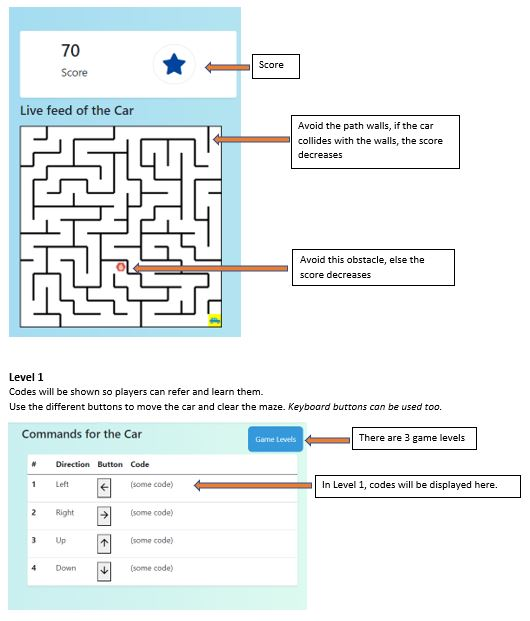
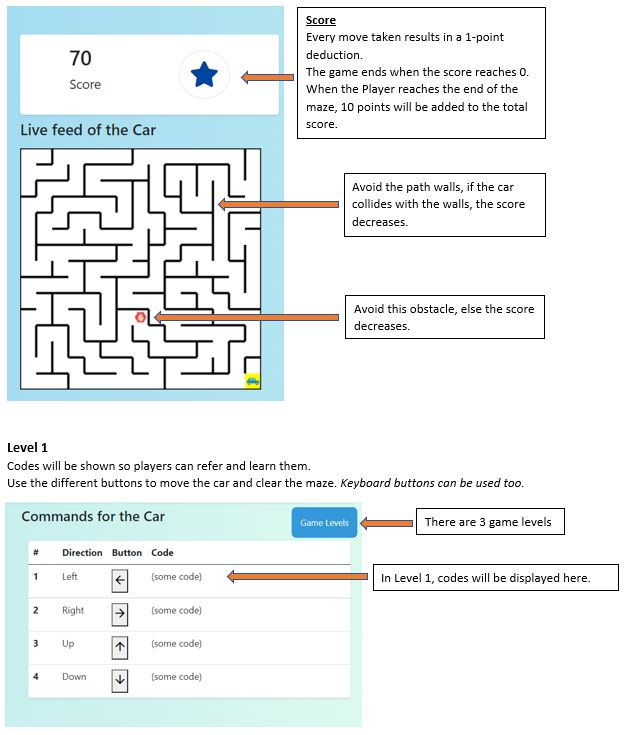
updated score

Changed region(s): [[0.0, 0.0, 0.8755, 0.5507], [0.0, 0.5813, 0.9962, 1.0]]

diff --git a/dashboard/maze.js b/dashboard/maze.js
@@ -29,6 +29,7 @@ function startGame() {
     overlay.addEventListener('click', () => {
         overlay.classList.remove('visible');
         startGame();
+        document.getElementById("score-tag").innerHTML = car.score
     });
 });
 }
@@ -44,7 +45,7 @@ class Car {
   init() {
     this.col = 0;
     this.row = 0;
-    this.score = 100;
+    this.score = 150;
     this.finalscore = 0;
     this.reachedfinal = 0;
   }
@@ -311,7 +312,7 @@ function keyDown(event) {
         car.col -= 1;
         updateSpeed("down");
         if (car.reachedfinal == 0) {
-          updateScore("add");
+          updateScore("subtract");
         }
       } else {
         if (car.reachedfinal == 0) {
@@ -331,7 +332,7 @@ function keyDown(event) {
         car.col += 1;
         updateSpeed("down");
         if (car.reachedfinal == 0) {
-          updateScore("add");
+          updateScore("subtract");
         }
       } else {
         if (car.reachedfinal == 0) {
@@ -350,7 +351,7 @@ function keyDown(event) {
         car.row += 1;
         updateSpeed("down");
         if (car.reachedfinal == 0) {
-          updateScore("add");
+          updateScore("subtract");
         }
       } else {
         if (car.reachedfinal == 0) {
@@ -369,7 +370,7 @@ function keyDown(event) {
         car.row -= 1;
         updateSpeed("down");
         if (car.reachedfinal == 0) {
-          updateScore("add");
+          updateScore("subtract");
         }
       } else {
         if (car.reachedfinal == 0) {
@@ -399,7 +400,7 @@ function buttonClick(event) {
         car.col -= 1;
         updateSpeed("down");
         if (car.reachedfinal == 0) {
-          updateScore("add");
+          updateScore("subtract");
         }
       } else {
         if (car.reachedfinal == 0) {
@@ -417,7 +418,7 @@ function buttonClick(event) {
         car.col += 1;
         updateSpeed("down");
         if (car.reachedfinal == 0) {
-          updateScore("add");
+          updateScore("subtract");
         }
       } else {
         if (car.reachedfinal == 0) {
@@ -435,7 +436,7 @@ function buttonClick(event) {
         car.row += 1;
         updateSpeed("down");
         if (car.reachedfinal == 0) {
-          updateScore("add");
+          updateScore("subtract");
         }
       } else {
         if (car.reachedfinal == 0) {
@@ -453,7 +454,7 @@ function buttonClick(event) {
         car.row -= 1;
         updateSpeed("down");
         if (car.reachedfinal == 0) {
-          updateScore("add");
+          updateScore("subtract");
         }
       } else {
         if (car.reachedfinal == 0) {
@@ -472,12 +473,12 @@ function buttonClick(event) {
 
 function updateSpeed(event) {
     if (event == "down") {
-      var speed = "5" + " km/h"
+      var speed = "5" + " m/s"
       document.getElementById("speed-tag").innerHTML = speed;
   }
 
     else if (event == "up") {
-      var speed = "0" + " km/h"
+      var speed = "0" + " m/s"
       document.getElementById("speed-tag").innerHTML = speed;
     }
 }
@@ -486,17 +487,20 @@ function updateScore(event) {
 
   if (car.reachedfinal == 0) {
     if (event == "add") {
-      car.score += 1
+      car.score += 11
       car.score = Math.max(car.score, 0)
       document.getElementById("score-tag").innerHTML = car.score
       console.log(car.score)
     } 
 
     else if (event == "subtract") {
-      car.score -= 10
+      car.score -= 1
       car.score = Math.max(car.score, 0)
       document.getElementById("score-tag").innerHTML = car.score
       console.log(car.score)
+      if (car.score == 0) {
+        document.getElementById('game-over-text').classList.add('visible');
+      }
     }
 
   }
@@ -511,8 +515,9 @@ function updateScore(event) {
 function goalReached() {
   console.log("car col " + car.col + " final score " + car.finalscore)
   if ((car.col == maze.cols - 1) && ((car.row == maze.rows - 1))) {
+    updateScore("add");
     car.reachedfinal = 1;
-    document.getElementById('game-over-text').classList.add('visible');
+    document.getElementById('victory-text').classList.add('visible');
   }
 }
 

diff --git a/dashboard/control2.html b/dashboard/control2.html
@@ -80,7 +80,7 @@
                     <div class="col-md-3">
                         <div class="p-3 bg-white shadow-sm d-flex justify-content-around align-items-center rounded">
                             <div>
-                                <h3 class="fs-2" id="score-tag">100</h3>
+                                <h3 class="fs-2" id="score-tag">150</h3>
                                 <p class="fs-5">Score</p>
                             </div>
                             <i class="fas fa-star fs-1 primary-text border rounded-full secondary-bg p-3"></i>
@@ -90,7 +90,7 @@
                     <div class="col-md-3">
                         <div class="p-3 bg-white shadow-sm d-flex justify-content-around align-items-center rounded">
                             <div>
-                                <h3 class="fs-2" id="speed-tag">0 km/h</h3>
+                                <h3 class="fs-2" id="speed-tag">0 m/s</h3>
                                 <p class="fs-5">Speed</p>
                             </div>
                             <i
@@ -123,6 +123,10 @@
                   </div>
                   <div id="game-over-text" class="overlay-text">
                     GAME OVER
+                    <span class="overlay-text-small">Click to Restart</span>
+                </div>
+                <div id="victory-text" class="overlay-text">
+                    VICTORY
                     <span class="overlay-text-small">Click to Restart</span>
                 </div>
                 <div style='float:left'>
@@ -203,7 +207,7 @@
                <!-- Modal content -->
                <div class="modal-content">
                    <span class="close">&times;</span>
-                   <img src="level2.JPG">
+                   <img src="instructions-1.JPG">
                </div> 
 
     </div>

diff --git a/dashboard/control.html b/dashboard/control.html
@@ -48,6 +48,7 @@
         text-decoration: none;
         cursor: pointer;
         }
+
     </style>
 </head>
 <body onload='startGame()'>
@@ -80,7 +81,7 @@
                     <div class="col-md-3">
                         <div class="p-3 bg-white shadow-sm d-flex justify-content-around align-items-center rounded">
                             <div>
-                                <h3 class="fs-2" id="score-tag">100</h3>
+                                <h3 class="fs-2" id="score-tag">150</h3>
                                 <p class="fs-5">Score</p>
                             </div>
                             <i class="fas fa-star fs-1 primary-text border rounded-full secondary-bg p-3"></i>
@@ -90,7 +91,7 @@
                     <div class="col-md-3">
                         <div class="p-3 bg-white shadow-sm d-flex justify-content-around align-items-center rounded">
                             <div>
-                                <h3 class="fs-2" id="speed-tag">0 km/h</h3>
+                                <h3 class="fs-2" id="speed-tag">0 m/s</h3>
                                 <p class="fs-5">Speed</p>
                             </div>
                             <i
@@ -125,8 +126,12 @@
                     GAME OVER
                     <span class="overlay-text-small">Click to Restart</span>
                 </div>
+                <div id="victory-text" class="overlay-text">
+                    VICTORY
+                    <span class="overlay-text-small">Click to Restart</span>
+                </div>
                 <div style='float:left'>
-                    <h3 class="fs-4 mb-3">Live feed of the Car</h3>
+                    <h3 class="fs-4 mb-3">MAZE</h3>
 
                     <div id="maze">
             

diff --git a/dashboard/control3.html b/dashboard/control3.html
@@ -80,7 +80,7 @@
                     <div class="col-md-3">
                         <div class="p-3 bg-white shadow-sm d-flex justify-content-around align-items-center rounded">
                             <div>
-                                <h3 class="fs-2" id="score-tag">100</h3>
+                                <h3 class="fs-2" id="score-tag">150</h3>
                                 <p class="fs-5">Score</p>
                             </div>
                             <i class="fas fa-star fs-1 primary-text border rounded-full secondary-bg p-3"></i>
@@ -90,7 +90,7 @@
                     <div class="col-md-3">
                         <div class="p-3 bg-white shadow-sm d-flex justify-content-around align-items-center rounded">
                             <div>
-                                <h3 class="fs-2" id="speed-tag">0 km/h</h3>
+                                <h3 class="fs-2" id="speed-tag">0 m/s</h3>
                                 <p class="fs-5">Speed</p>
                             </div>
                             <i
@@ -125,8 +125,12 @@
                     GAME OVER
                     <span class="overlay-text-small">Click to Restart</span>
                 </div>
+                <div id="victory-text" class="overlay-text">
+                    VICTORY
+                    <span class="overlay-text-small">Click to Restart</span>
+                </div>
                 <div style='float:left'>
-                    <h3 class="fs-4 mb-3">Live feed of the Car</h3>
+                    <h3 class="fs-4 mb-3">MAZE</h3>
 
                     <div id="maze">
             

diff --git a/dashboard/style2.css b/dashboard/style2.css
@@ -78,6 +78,8 @@
 }
 }
 
+
+
 /* Dropdown Button */
 .dropbtn {
   background-color: #3498DB;
